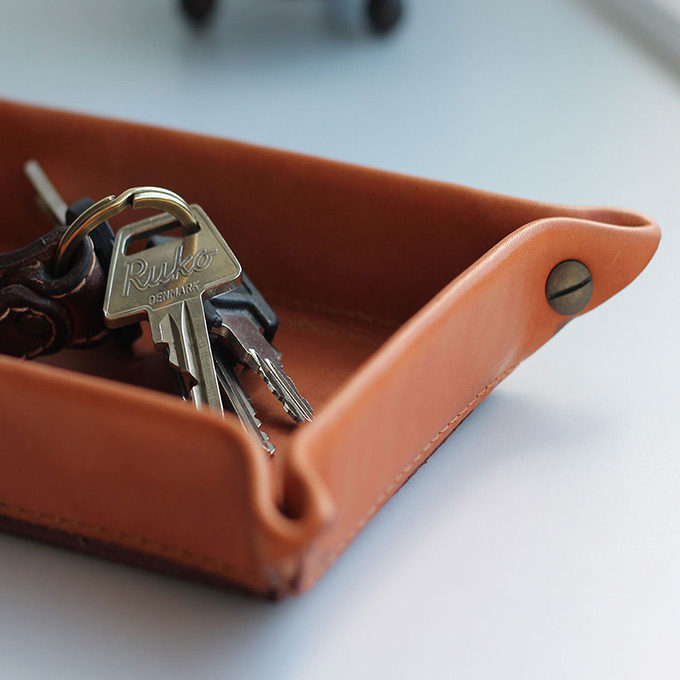
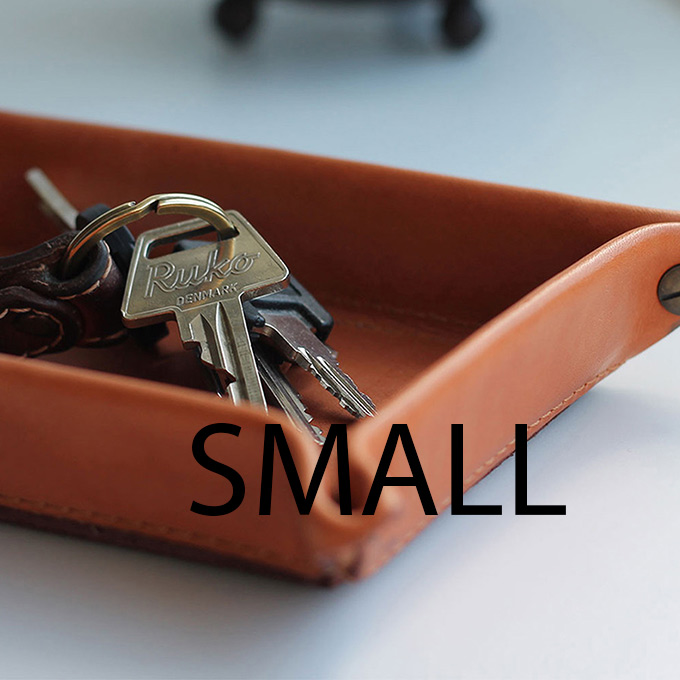
:art: Change slider sizes to avoid croppings

diff --git a/frontend/components/Slider.js b/frontend/components/Slider.js
@@ -3,35 +3,16 @@ import styled from 'styled-components'
 
 const Container = styled.div`
 	margin-bottom: -80px;
-	height: 500px;
+	text-align: center;
 
-	@media (min-width: ${props => props.theme.breakpoints.sm}) {
-		height: 500px;
-	}
+	img {
+		width: 100%;
 
-	@media (min-width: ${props => props.theme.breakpoints.xl}) {
-		height: 700px;
-	}
-`
-
-const Slide = styled.div`
-	margin: 0 auto;
-	height: 100%;
-	width: 100%;
-	background-repeat: no-repeat;
-	background-size: cover;
-	background-position: top center;
-    max-width: 2700px;
-    
-
-    background-image: url('/images/slider/${props => props.image}-small.jpg');
-    
-	@media (min-width: ${props => props.theme.breakpoints.sm}) {
-        background-image: url('/images/slider/${props => props.image}-medium.jpg');
-	}
-    
-	@media (min-width: ${props => props.theme.breakpoints.xl}) {
-        background-image: url('/images/slider/${props => props.image}-large.jpg');
+		@media (min-width: ${props => props.theme.breakpoints.xl}) {
+			max-height: 890px;
+			width: auto;
+			margin: 0 auto;
+		}
 	}
 `
 
@@ -39,7 +20,19 @@ const Slider = props => {
 	return (
 		<Container>
 			{props.slides.map(image => (
-				<Slide image={image} />
+				<img
+					srcset={`
+						/images/slider/${image}-small.jpg 680w,
+						/images/slider/${image}-medium.jpg 1024w,
+						/images/slider/${image}-large.jpg 1600w,
+					`}
+					sizes={`
+						(max-width: 680px) 680px,
+						(max-width: 1025px) 1024px,
+						1600px
+					`}
+					src={`/images/slider/${image}-medium.jpg`}
+				/>
 			))}
 		</Container>
 	)

diff --git a/frontend/pages/index.js b/frontend/pages/index.js
@@ -7,7 +7,7 @@ const Home = props => {
 	const language = useContext(LanguageContext)
 	return (
 		<>
-			<Slider slides={['hero2']} />
+			<Slider slides={['hero1']} />
 			<ContentSection>
 				<p>
 					Lorem ipsum dolor sit amet, consectetur adipiscing elit, sed do eiusmod tempor incididunt ut labore et dolore

diff --git a/frontend/components/ContentSection.js b/frontend/components/ContentSection.js
@@ -4,12 +4,12 @@ const ContentSection = styled.div`
 	margin: 0 auto;
 	padding: 1px 30px;
 	max-width: ${props => props.theme.maxWidth};
+	position: relative;
 	background: white;
 
 	> section {
 		margin: auto 20px;
 		max-width: ${props => props.theme.maxWidth};
-		background: white;
 	}
 `
 
